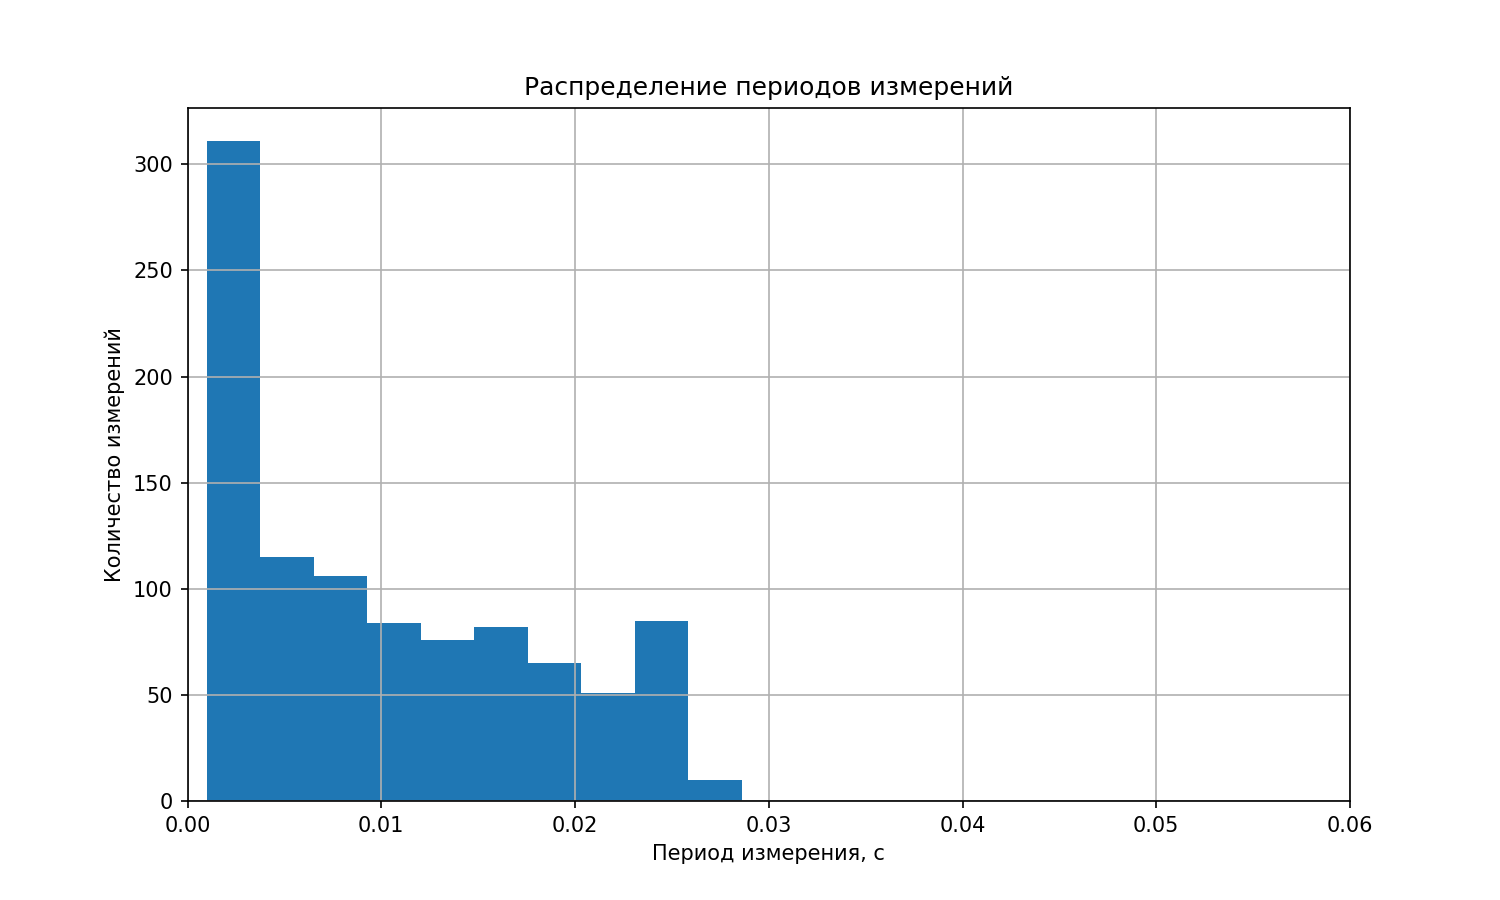
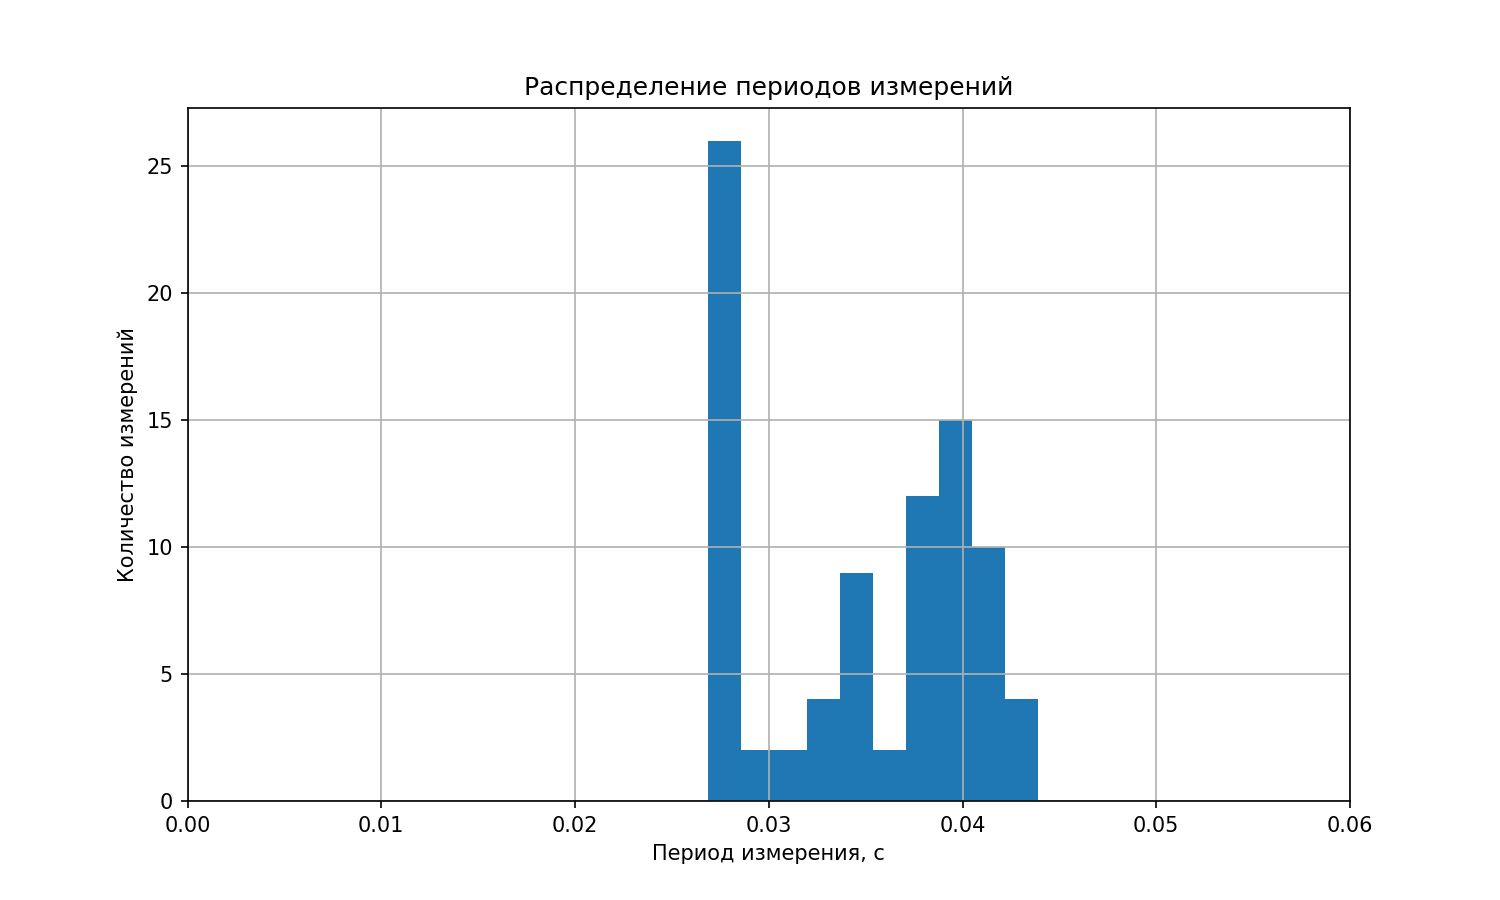
s<df

Changed region(s): [[0.0613, 0.1556, 0.8893, 0.9022]]

diff --git a/get-adc/r2r_adc.py b/get-adc/r2r_adc.py
@@ -44,10 +44,10 @@ class R2R_ADC:
 if __name__ == "__main__":
     adc = None
     try:
-        adc = R2R_ADC(3.28)
+        adc = R2R_ADC(3.185)
 
         while True:
-            voltage = adc.get_get_voltage()
+            voltage = adc.get_sc_voltage()
             print(f"Напряжение: {voltage:.2f} В")
 
     finally:

diff --git a/get-adc/r2r-sc.py b/get-adc/r2r-sc.py
@@ -3,13 +3,13 @@ import time
 import r2r_adc
 import adc_plot
 
-dynamic_range = 3.28
+dynamic_range = 3.295
 
 adc = r2r_adc.R2R_ADC(dynamic_range, compare_time=0.0001)
 
 voltage_values = []
 time_values = []
-duration = 10.0
+duration = 3.0
 
 try:
     start = time.time()
